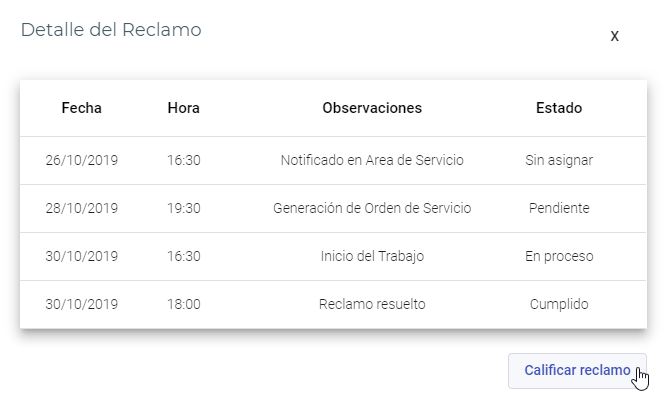
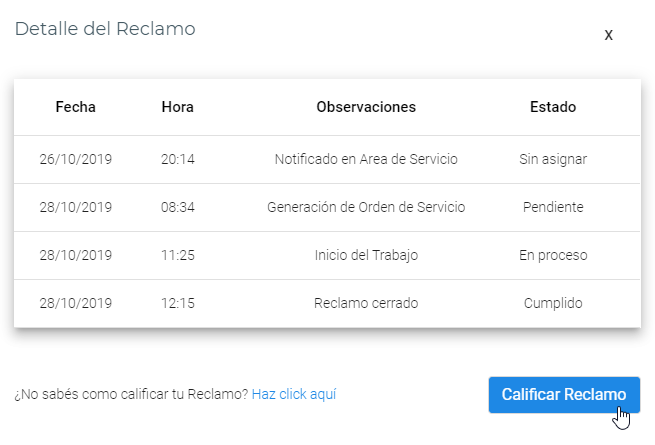
Modificando sección ayuda

diff --git a/src/app/pages/ayuda/ayuda-consultar-reclamo/ayuda-consultar-reclamo.component.html b/src/app/pages/ayuda/ayuda-consultar-reclamo/ayuda-consultar-reclamo.component.html
@@ -1,12 +1,77 @@
 <h3>¿Cómo Consultar un reclamo?</h3>
 <div class="text-justify">
-    Para <b>consultar</b> un Reclamo, dirígase a la sección <b>Reclamo > Consultar</b>, e ingrese cualquier dato relacionado al mismo, ya sea código, area de servicio, reclamo, dirección, etc:
+    Para <b>consultar</b> un Reclamo, dirígase a la sección <b>Reclamo > Consultar</b>.
+    <br><br>El sistema automáticamente listará todos sus reclamos realizados y usted podrá consultarlos aplicando un filtro de búsqueda:
     <br><br>
     <div align="center">
-        <img src="../../../assets/images/myImages/consultarReclamo.PNG">
+        <img src="../../../assets/images/myImages/filtroConsultarReclamante.png">
     </div>
-    <br> Presionando el botón en la columna "Ver" de algún Reclamo específico, podrá visualizar las actividades llevadas a cabo en el proceso de resolución, empezando desde la Generación de la Orden de Servicio hasta el cumplimiento del Reclamo en caso
-    que haya podido resolverse:
+    <br> Para aplicar el filtro de búsqueda se cuenta con 2 campos: <b>Estado</b> y <b>Dato</b>.
+    <br><br> En cuanto a "<b>Estado</b>", se hace referencia al estado en que se encuentra el reclamo, que pueden ser 6:
+    <br><br>
+    <mat-accordion>
+        <mat-expansion-panel>
+            <mat-expansion-panel-header>
+                <mat-panel-title>
+                    <b>Sin Asignar</b>
+                </mat-panel-title>
+            </mat-expansion-panel-header>
+            <p>Estado en que se encuentra un Reclamo al momento de Registrarse.</p>
+        </mat-expansion-panel>
+        <mat-expansion-panel>
+            <mat-expansion-panel-header>
+                <mat-panel-title>
+                    <b>Pendiente</b>
+                </mat-panel-title>
+            </mat-expansion-panel-header>
+            <p>Estado en que se encuentra un Reclamo cuando se genera la Orden de Servicio que se encargará de abordar el mismo.</p>
+        </mat-expansion-panel>
+        <mat-expansion-panel>
+            <mat-expansion-panel-header>
+                <mat-panel-title>
+                    <b>En Proceso</b>
+                </mat-panel-title>
+            </mat-expansion-panel-header>
+            <p>Estado en que se encuentra un Reclamo cuando se comienza a realizar el trabajo por parte del Área de Servicio correspondiente.</p>
+        </mat-expansion-panel>
+        <mat-expansion-panel>
+            <mat-expansion-panel-header>
+                <mat-panel-title>
+                    <b>Cancelado</b>
+                </mat-panel-title>
+            </mat-expansion-panel-header>
+            <p>Estado en que se encuentra un Reclamo cuando es dado de baja. Por ejemplo, a la hora de abordar el problema, que no exista o ya haya sido solucionado.</p>
+        </mat-expansion-panel>
+        <mat-expansion-panel>
+            <mat-expansion-panel-header>
+                <mat-panel-title>
+                    <b>Rechazado</b>
+                </mat-panel-title>
+            </mat-expansion-panel-header>
+            <p>Estado en que se encuentra un Reclamo cuando es dado de baja, pero automáticamente el sistma lo inserta en una nueva Orden de Servicio para poder abordalo en otro momento. Por ejemplo, si los trabajadores se quedan sin insumos mientras están
+                trabajando.
+            </p>
+        </mat-expansion-panel>
+        <mat-expansion-panel>
+            <mat-expansion-panel-header>
+                <mat-panel-title>
+                    <b>Cumplido</b>
+                </mat-panel-title>
+            </mat-expansion-panel-header>
+            <p>Estado en que se encuentra un Reclamo cuando fue abordado y solucionado exitosamente. trabajando.
+            </p>
+        </mat-expansion-panel>
+    </mat-accordion>
+    <br> Predeterminadamente, el sistema muestra los Reclamos en Estado <b>Sin Asignar</b>. Si selecciona un Estado diferente, el sistema le mostrará todos los Reclamos realizados en ese estado al momento actual.
+    <br><br> Por otra parte, el campo "<b>Dato</b>" nos permite filtrar los Reclamos ingresado cualquier dato referido al mismo, ya sea código, fecha de alta, reclamo, etc.
+    <br><br> Ya sea por uno, o por ambos campos, el sistema listara todos los reclamos con sus datos en una grilla:
+    <br><br>
+    <div align="center">
+        <img src="../../../assets/images/myImages/grillaConsultar.png">
+    </div>
+
+    <br><br> Presionando el botón en la columna "<b>Ver</b>" de algún Reclamo específico, podrá visualizar las actividades llevadas a cabo en el proceso de resolución, empezando desde la Notificación al Área de Servicio cuando se registró el Reclamo hasta
+    el cumplimiento del Reclamo en caso que haya podido resolverse:
     <br><br>
     <div align="center">
         <img src="../../../assets/images/myImages/verReclamo.png">

diff --git a/src/app/pages/generar-reclamo/generar-reclamo-ciudadano/generar-reclamo-ciudadano.component.ts b/src/app/pages/generar-reclamo/generar-reclamo-ciudadano/generar-reclamo-ciudadano.component.ts
@@ -116,23 +116,18 @@ export class GenerarReclamoCiudadanoComponent implements OnInit {
     });
   }
 
-  //#region GOOGLE MAPS
-
   getPlacesAutocomplete() {
     // load Places Autocomplete
     this.mapsAPILoader.load().then(() => {
     this.setCurrentLocation();
-    // tslint:disable-next-line:new-parens
     this.geoCoder = new google.maps.Geocoder;
 
-    // tslint:disable-next-line:prefer-const
     let autocomplete = new google.maps.places.Autocomplete(this.searchElementRef.nativeElement, {
       types: ['address']
     });
     autocomplete.addListener('place_changed', () => {
         this.ngZone.run(() => {
         // get the place result
-        // tslint:disable-next-line:prefer-const
         let place: google.maps.places.PlaceResult = autocomplete.getPlace();
 
         // verify result
@@ -169,19 +164,18 @@ export class GenerarReclamoCiudadanoComponent implements OnInit {
 
   getAddress(latitude, longitude) {
     this.geoCoder = new google.maps.Geocoder();
-    // tslint:disable-next-line:object-literal-key-quotes
     this.geoCoder.geocode({ 'location': { lat: latitude, lng: longitude } }, (results, status) => {
       if (status === 'OK') {
         if (results[0]) {
 
-          // Con el nombre de la calle, se buscan todos los barrios de esa calle
+          // Se asigna el nombre de la Calle al objeto
           this.objCalle = {
             cal_nombre: results[0].address_components[1].long_name
           };
 
+          // Se busca el nombre de la calle para asignarlo al select Calle
           this.reclamoService.selectBarrioPorCalle(this.objCalle).subscribe(dataBarrio => {
             this.arrBarrio = JSON.parse(dataBarrio);
-
             this.reclamoService.selectCalle(this.objCalle).subscribe(dataCalle => {
               this.arrCalle = JSON.parse(dataCalle);
               this.altura = results[0].address_components[0].long_name;
@@ -196,7 +190,6 @@ export class GenerarReclamoCiudadanoComponent implements OnInit {
       }
     });
   }
-  //#endregion
 
   validarRealizacionReclamo() {
       if (this.user.usu_IDRol === 1) {
@@ -284,7 +277,6 @@ export class GenerarReclamoCiudadanoComponent implements OnInit {
     this.altura = null;
   }
 
-  //#endregion FILTROS SELECTS
   cargaSelectTipoReclamo() {
     try {
       this.objIDArServ = {
@@ -334,7 +326,6 @@ export class GenerarReclamoCiudadanoComponent implements OnInit {
       this.Calle = this.arrCalle.filter(x => x.cal_IDCalle === +this.frmGenerar.calle.value)[0];
     }
   }
-  //#endregion
 
   // VALIDACION CONTROL ALTURA
   validarIngreso(event): boolean {

diff --git a/src/app/pages/ayuda/ayuda-calificar-reclamo/ayuda-calificar-reclamo.component.html b/src/app/pages/ayuda/ayuda-calificar-reclamo/ayuda-calificar-reclamo.component.html
@@ -1,11 +1,12 @@
 <h3>¿Cómo Calificar un Reclamo?</h3>
 <div class="text-justify">
-    Esta operación podrá llevarla a cabo únicamente en caso de que el Reclamo haya sido resuelto. Para calificar su Reclamo, dirígase a la sección <b>Reclamo > Consultar</b>, seleccione el Reclamo correspondiente en la columna "Ver":
+    Esta operación podrá llevarla a cabo únicamente en caso de que el Reclamo haya sido resuelto. Para calificar su Reclamo, dirígase a la sección <b>Reclamo > Consultar</b>.
+    <br><br>Seleccione el Reclamo correspondiente en la columna "<b>Ver</b>":
     <br><br>
     <div align="center">
         <img src="../../../assets/images/myImages/verReclamo2.png">
     </div>
-    <br><br> Se listarán todas las actividades y estados por los cuales pasó su reclamo. Si el último Estado es "Cumplido", se habilitará el botón para poder calificarlo:
+    <br><br> Se listarán todas las actividades y estados por los cuales pasó su reclamo. Si el último Estado es "<b>Cumplido</b>", se habilitará el botón para poder calificarlo:
     <br><br>
     <div align="center">
         <img src="../../../assets/images/myImages/calificarReclamo.png">

diff --git a/src/app/pages/generar-reclamo/generar-reclamo-ciudadano/generar-reclamo-ciudadano.component.html b/src/app/pages/generar-reclamo/generar-reclamo-ciudadano/generar-reclamo-ciudadano.component.html
@@ -40,11 +40,12 @@
                     </select>
                 </div>
 
-
-                <div [hidden]="mapVisibility === 'hidden'">
-                    <agm-map id="googleMap" [latitude]="lat" [longitude]="lng" [zoom]="zoom">
-                        <agm-marker [latitude]="lat" [longitude]="lng" [markerDraggable]="true" (dragEnd)="markerDragEnd($event)"></agm-marker>
-                    </agm-map>
+                <div class="form-group">
+                    <div [hidden]="mapVisibility === 'hidden'">
+                        <agm-map id="googleMap" [latitude]="lat" [longitude]="lng" [zoom]="zoom">
+                            <agm-marker [latitude]="lat" [longitude]="lng" [markerDraggable]="true" (dragEnd)="markerDragEnd($event)"></agm-marker>
+                        </agm-map>
+                    </div>
                 </div>
 
                 <div class="form-group">

diff --git a/src/app/pages/modal-estadoreclamo/modal-estadoreclamo.component.ts b/src/app/pages/modal-estadoreclamo/modal-estadoreclamo.component.ts
@@ -26,6 +26,7 @@ export class ModalEstadoreclamoComponent implements OnInit {
   rating = false;
   objRating: SelectRating;
   ratingArr = [];
+  boRating = false;
 
   displayedColumns: string[] = [
     'his_fechaIngreso',
@@ -60,6 +61,15 @@ export class ModalEstadoreclamoComponent implements OnInit {
   selectHistorial() {
     this.reclamoService.selectHistorial(this.objIDRec).subscribe(data => {
       this.lstDatos = JSON.parse(data);
+
+      // VALIDACIÓN PARA SABER SI ESTÁ EL RECLAMO EN ESTADO CUMPLIDO Y ASI MOSTRAR EL BOTON PARA REGISTRAR RATING
+      // const fila = this.lstDatos.length;
+
+      // if (this.lstDatos[fila].estRec_nombre === 'Cumplido') {
+      //   this.boRating = true;
+      // }
+      
+
       this.dataSource = new MatTableDataSource<any>(this.lstDatos);
     });
   }

diff --git a/src/app/pages/pages.module.ts b/src/app/pages/pages.module.ts
@@ -6,6 +6,7 @@ import { SharedModule } from '../shared/shared.module';
 import { NgbModule } from '@ng-bootstrap/ng-bootstrap';
 import { AngularMaterialModule } from './angular-material.module';
 import { AgmCoreModule } from '@agm/core';
+import { MatExpansionModule } from '@angular/material';
 
 // RUTAS
 import { PAGES_ROUTES } from './pages.routes';
@@ -94,6 +95,7 @@ import { AyudaCalificarReclamoComponent } from '../pages/ayuda/ayuda-calificar-r
         AngularMaterialModule,
         PAGES_ROUTES,
         ChartsModule,
+        MatExpansionModule,
         AgmCoreModule.forRoot({
             apiKey: 'AIzaSyDBWEJMiZxWYYYRlSXA278OpR3V-0e5ZTo',
             libraries: ['places']

diff --git a/src/app/app.module.ts b/src/app/app.module.ts
@@ -1,5 +1,5 @@
 // MODULOS
-import { BrowserModule } from '@angular/platform-browser';
+import { BrowserModule, HAMMER_LOADER } from '@angular/platform-browser';
 import { NgModule } from '@angular/core';
 import { HttpClientModule } from '@angular/common/http';
 import { FormsModule, ReactiveFormsModule } from '@angular/forms';
@@ -37,6 +37,10 @@ import { RecuperarPasswordComponent } from './login/recuperar-password.component
     AngularMaterialModule,
     APP_ROUTES
   ],
-  bootstrap: [AppComponent]
+  bootstrap: [AppComponent],
+  providers: [{
+    provide: HAMMER_LOADER,
+    useValue: () => new Promise(() => {})
+  }]
 })
 export class AppModule { }

diff --git a/src/app/pages/consultar-reclamo/consultar-reclamo.component.ts b/src/app/pages/consultar-reclamo/consultar-reclamo.component.ts
@@ -113,9 +113,9 @@ export class ConsultarReclamoComponent implements OnInit {
 					this.frmConsultar.estado.patchValue(this.arrEstado[0].estRec_IDEstado);
 				});
 
-				// Se asigna valor predeterminado a select, estado "Sin Asignar"
+				/* Se asigna valor predeterminado a select, estado "Sin Asignar" y se llama al méotodo para buscar los reclamos
+				/ en ese estado */
 				this.frmConsultar.estado.patchValue(1);
-				// Se listan los reclamos en estado "Sin Asignar"				
 				this.listarReclamoPorEstado();
 				document.getElementById('idTableConsulta').style.visibility = 'visible';
 			} else {

diff --git a/src/app/login/recuperar-password.component.html b/src/app/login/recuperar-password.component.html
@@ -10,7 +10,7 @@
 
                 <h3 class="box-title m-t-40 m-b-0 text-center text-white">Recuperar Contraseña</h3>
                 <br>
-                <p class="pMensaje">Ingresá tu email y te enviaremos información para cambiar tu contraseña.</p>
+                <p class="pMensaje">Ingresá el email con el que te registraste y te enviaremos información para cambiar tu contraseña.</p>
 
                 <!-- EMAIL -->
                 <div class="form-group ">

diff --git a/src/app/pages/ayuda/ayuda-consultar-reclamo/ayuda-consultar-reclamo.component.ts b/src/app/pages/ayuda/ayuda-consultar-reclamo/ayuda-consultar-reclamo.component.ts
@@ -6,6 +6,7 @@ import { Component, OnInit } from '@angular/core';
   styles: []
 })
 export class AyudaConsultarReclamoComponent implements OnInit {
+  panelOpenState = false;
 
   constructor() { }
 

diff --git a/src/app/pages/generar-reclamo/generar-reclamo-ciudadano/generar-reclamo-ciudadano.component.css b/src/app/pages/generar-reclamo/generar-reclamo-ciudadano/generar-reclamo-ciudadano.component.css
@@ -4,7 +4,7 @@
 }
 
 agm-map {
-    height: 250px;
+    height: 300px;
 }
 
 input:disabled {
